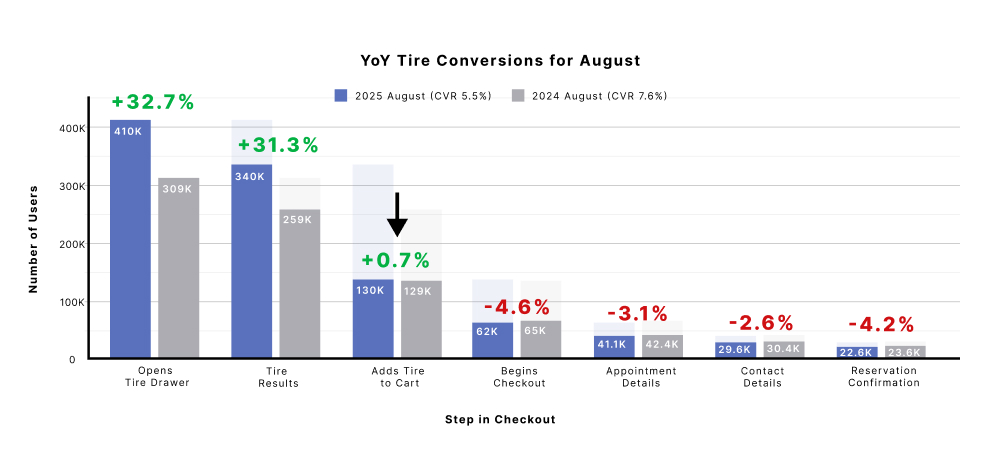
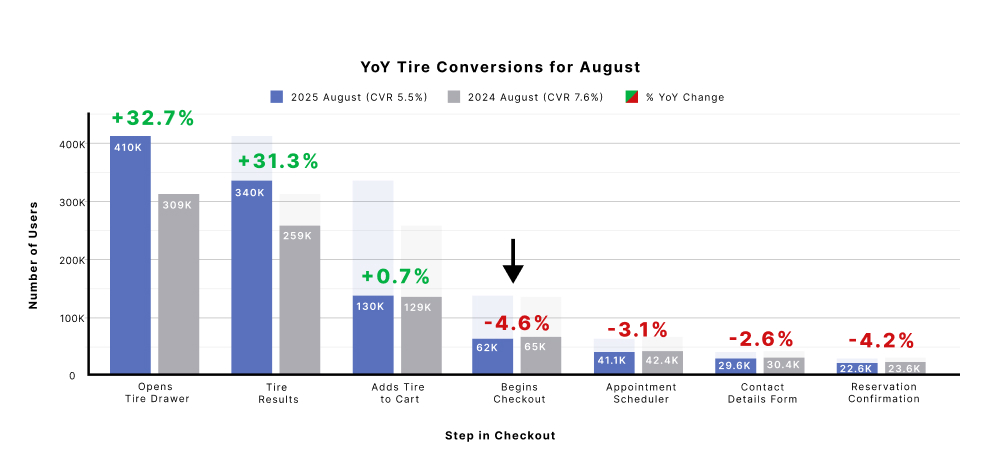
overviews rewritten, graph changes

diff --git a/src/jsx/pages/projectPages/mavisCheckout.jsx b/src/jsx/pages/projectPages/mavisCheckout.jsx
@@ -11,14 +11,15 @@ function MavisCheckout(props) {
         
     return (
             <Project {...data}>
-                <h6 className="subheading">The effect</h6>
-                <h2>Impact At A Glance</h2>
+                <h6 className="subheading">Overview</h6>
+                <h2>Improving Mavis's Checkout</h2>
 
-                <p>After implementing design changes, we saw a <b>46.8% increase</b> in total number of tire purchases year-over-year.</p>
-                <ZoomImg imgSrc={"img/mt-checkout-tire-results.jpg"} />
+                <p>Mavis's flow for buying tires online saw significant diffculty in converting users year over year. In partnership with Marketing, my team sought to improve the tire buying experience at key points of dropoff.</p>
 
-                <p>And a <b>22.1% increase</b> in the overall CVR for tires ( from 5.9% to 7.2% )</p>
+                <p>We targeted <b>product results and checkout</b>: surfacing product value, clarifying confusing UI, and fixing multiple deadends for users.</p>
                 
+                <ZoomImg imgSrc={"img/mt-checkout-tire-results.jpg"} />
+                <p>After implementing changes, we saw a <b>46.8% increase</b> in total number of tire purchases year-over-year. And a <b>22.1% increase</b> in the overall CVR for tires ( from 5.9% to 7.2% )</p>
                 <ZoomImg imgSrc={"img/mt-checkout-cart.jpg"} />
 
                 <hr/>
@@ -27,11 +28,11 @@ function MavisCheckout(props) {
                 <h2>Fewer Customers Completing Checkout</h2>
 
                 <p>In 2025, we saw a consistent drop in the conversion rate for tire purchases compared to last year. Though more users were visiting the site, <b>a smaller percentage were adding tires to their cart.</b>  </p>
-                
+
+                <ZoomImg imgSrc={"img/mt-checkout-august-graph.jpg"} />
                 
                 <p>Every step past "adding a tire to their cart," saw lower retention rates (% of users continuing to the next step).</p>
 
-                <ZoomImg imgSrc={"img/mt-checkout-august-graph.jpg"} />
                 <br/><br/>
 
                 <h3>We had 3 main goals moving forward with this project</h3>
@@ -125,7 +126,7 @@ function MavisCheckout(props) {
                 <h6 className="subheading">The Impact</h6>
                 <h2>More Online Reservations</h2>
 
-                <p>The product result and cart changes were released February 18th. Since then, we've seen a <b>significant increase in online reservations</b> which has persisted over 3 months. </p>
+                <p>The product result and cart changes were released February 18th. Since then, we've seen a <b>significant increase in online reservations</b> which has persisted over 6 months. </p>
                 <ZoomImg imgSrc={"img/mt-checkout-rolling-stats.png"} />
 
                 <p>In March, we saw a <b>46.8% increase</b> in reservations and a <b>22.1% increase</b> in CVR, compared to last year. </p>

diff --git a/src/jsx/pages/projectPages/mavisVehiclePages.jsx b/src/jsx/pages/projectPages/mavisVehiclePages.jsx
@@ -87,7 +87,7 @@ function MavisVehiclePages(props) {
                 <p>We want to engage users to enter the rest of their vehicle information, so we design to immediately connect with users through a <b>recognizable visual of their vehicle.</b></p>
                 <ZoomImg imgSrc={"img/vhp-design-iteration.jpg"} alt={"Greyscale designs of the desktop make, model, and trim level vehicle pages."}/>
 
-                <p>Most of our site visitors will not scroll past 1/2 the page, so we keep the most engaging content, such as tire suggestions and deals, higher up. </p>
+                <p>Most of our site visitors do not scroll past the halfway mark of the page, so we keep the most engaging content, such as tire suggestions and deals, higher up. </p>
                 <ZoomImg imgSrc={"img/vhp-design-iteration-2.jpg"} alt={"Polished desktop and mobile mockups of the vehicle pages."}/>
                 
                 <p>The rest of the page is rich with SEO content, as well as additional points for users to select YEAR or TRIM to further their tire search.</p>
@@ -97,7 +97,7 @@ function MavisVehiclePages(props) {
                 <h6 className="subheading">Final Designs</h6>
                 <h2>Polished Prototypes</h2>
                 
-                <p>For final approval, I created <a href="https://www.figma.com/proto/D6wfyaKSWBgJSXg8rFGV7d/UI-UX-Requests--June---2025---1-?node-id=[phone redacted]&t=U47IB9OoZkTJeM84-1&scaling=scale-down&content-scaling=fixed&page-id=285%3A24285&starting-point-node-id=2338%3A197599&show-proto-sidebar=1" target="_blank" rel="noopener noreferrer">mobile prototypes</a> to present to leadership.</p>
+                <p>For final approval, I created <a href="https://www.figma.com/proto/D6wfyaKSWBgJSXg8rFGV7d/UI-UX-Requests--June---2025---1-?node-id=[phone redacted]&t=U47IB9OoZkTJeM84-1&scaling=scale-down&content-scaling=fixed&page-id=285%3A24285&starting-point-node-id=2338%3A197599&show-proto-sidebar=1" target="_blank" rel="noopener noreferrer">mobile prototypes</a> and presented to leadership.</p>
 
                 <ImgText
                     imgSrc={"img/vhp-hero-compressed.gif"}
@@ -130,9 +130,12 @@ function MavisVehiclePages(props) {
                 <hr/>
                 <h6 className="subheading">Impact</h6>
                 <h2>Page Ranking Performance</h2>
+
+                <p>With the initial pared-down release of these pages, we already see an average organic ranking of <b>6.4</b>, bringing in about <b>~720 additional visitors</b> to the site per day.</p>
+                <ZoomImg imgSrc={"img/vhp-impact.png"} alt={"Dashboard for performance of vehicle pages."}/>
                 
-                <p></p>
-                <ZoomImg imgSrc={"img/vhp-impact.jpg"} alt={"Dashboard for performance of vehicle pages."}/>
+
+                <p>We expect to see these KPIs rise, as we release the 2nd phase of these pages - with more complex componentry. </p>
 
                 
                 <hr/>